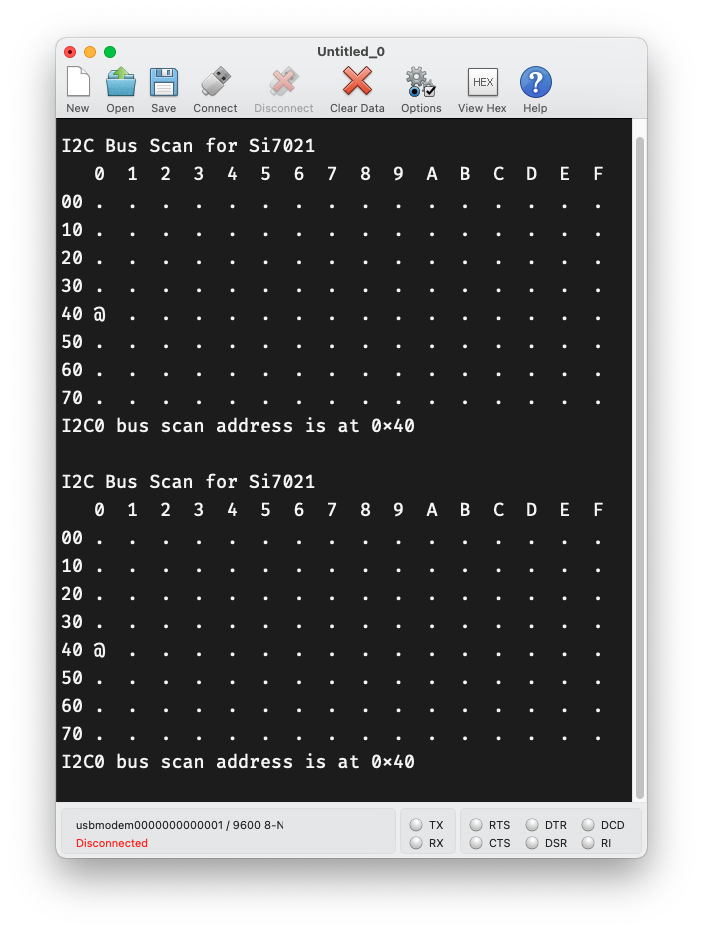
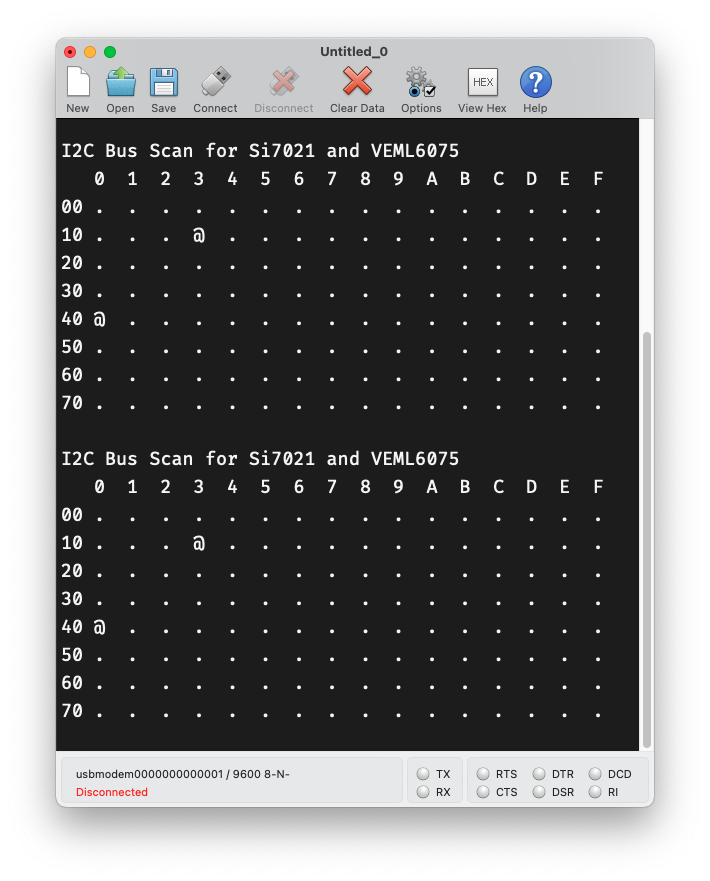
refactor: add 2 sensors for pico I2C example

diff --git a/_tutorials/pico-i2c/pico-i2c.c b/_tutorials/pico-i2c/pico-i2c.c
@@ -22,7 +22,7 @@ int main() {
   while (true) {
     int addrfound;
 
-    printf("\nI2C Bus Scan for Si7021\n");
+    printf("\nI2C Bus Scan for Si7021 and VCNL4000\n");
     printf("   0  1  2  3  4  5  6  7  8  9  A  B  C  D  E  F\n");
 
     for (int addr = 0; addr < (1 << 7); ++addr) {
@@ -47,7 +47,6 @@ int main() {
       printf(addr % 16 == 15 ? "\n" : "  ");
     }
 
-    printf("I2C0 bus scan address is at 0x%02x\n", addrfound);
     sleep_ms(2000);
   }
 }

diff --git a/_tutorials/pico-i2c.md b/_tutorials/pico-i2c.md
@@ -1,6 +1,6 @@
 ---
 layout: tutorials
-title: I2C Bus Scan for Sensor Si7021 with RPi pico
+title: I2C Bus Scan for Sensors Si7021 and VCNL4000 with RPi pico
 hardware:
   - raspberrypi
   - rpi
@@ -12,13 +12,23 @@ hardware:
 references:
   - name: Pico I2C Bus Scan example code
     url: https://github.com/raspberrypi/pico-examples/blob/master/i2c/bus_scan/bus_scan.c
-  - name: Adafruit Si7021 Dev Board
+  - name: Adafruit Si7021 Temperature / Humidity sensor Dev Board
     url: https://learn.adafruit.com/adafruit-si7021-temperature-plus-humidity-sensor
   - name: Si70721 Temperature / Humidity datasheet
     url: https://www.silabs.com/documents/public/data-sheets/Si7021-A20.pdf
+  - name: Adafruit VCNL4000 proximity sensor dev board
+    url:
+  - name: VCNL4000 datasheet
+    url: https://cdn.sparkfun.com/datasheets/BreakoutBoards/vcnl4000.pdf
 code: c
 ---
 
-This example code does an I2C Bus Scan for the sensor `Si7021` and returns the answer `0x40`.
+This example code does an I2C Bus Scan for the sensors `Si7021` and `VCNL4000`.
 
-<img src="{{ site.url }}/assets/images/tutorials/pico-i2c-datasheet.png" alt="Si7021 datasheet note on the I2C address">
+The datasheets of the 2 sensors below show that the serial monitor prints are in line with the information in the datasheet.
+
+The I2C address for `Si7021` is `0x40`.
+<img src="{{ site.url }}/assets/images/tutorials/pico-i2c-datasheet-si7021.png" alt="Si7021 datasheet note on the I2C address">
+
+The I2C address for `VCNL4000` is `0x13`.
+<img src="{{ site.url }}/assets/images/tutorials/pico-i2c-datasheet-vcnl4000.png" alt="VCNL4000 datasheet note on the I2C address">
